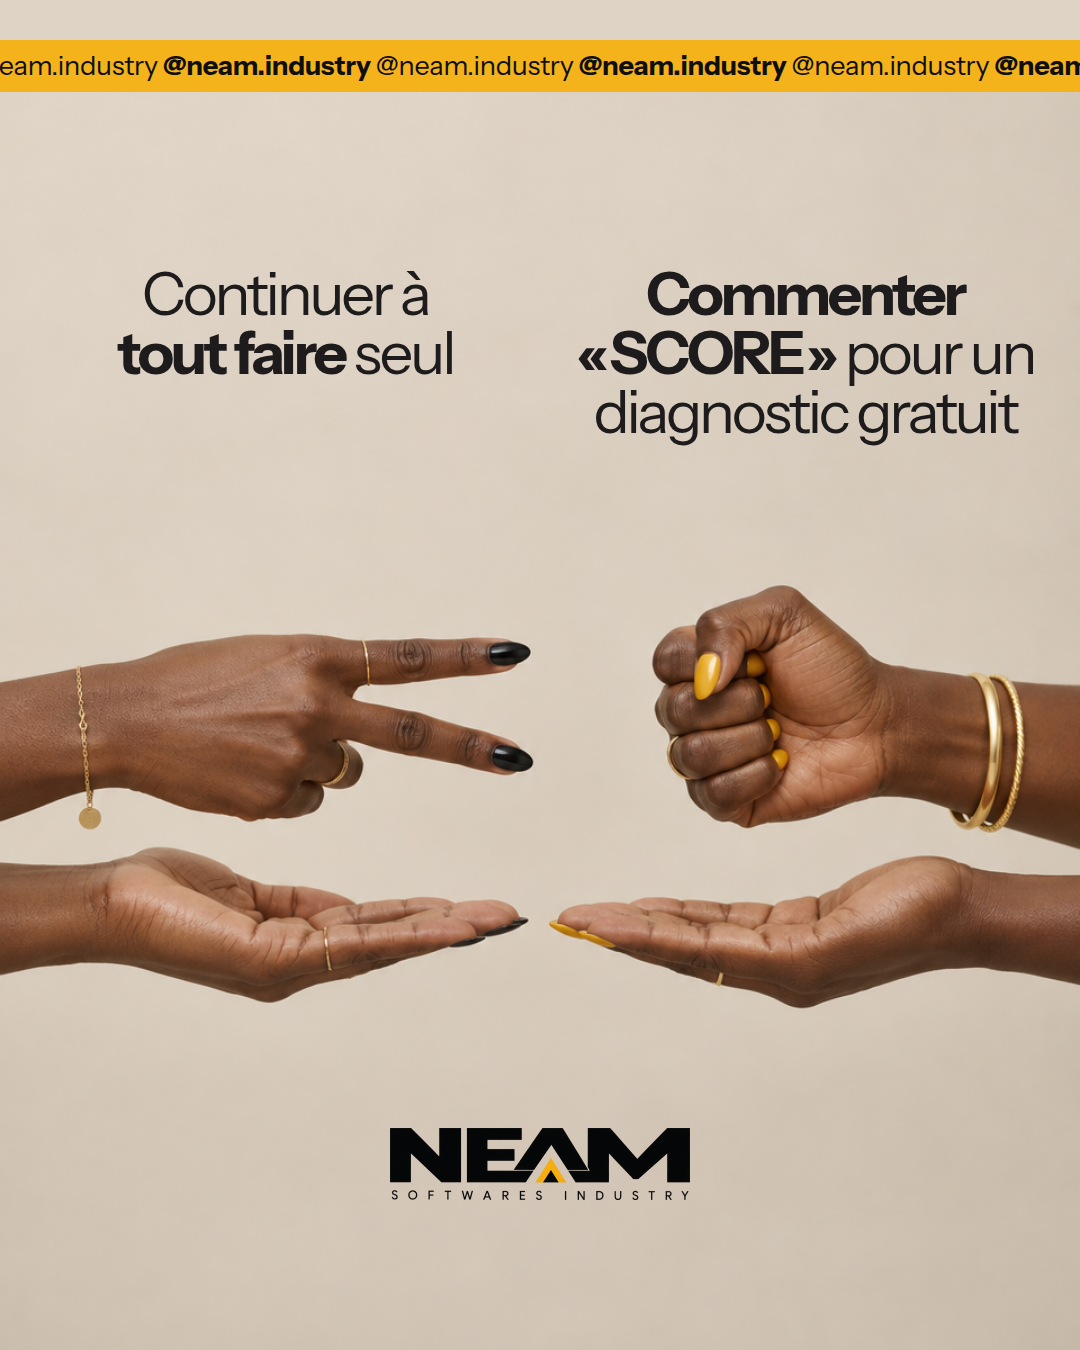
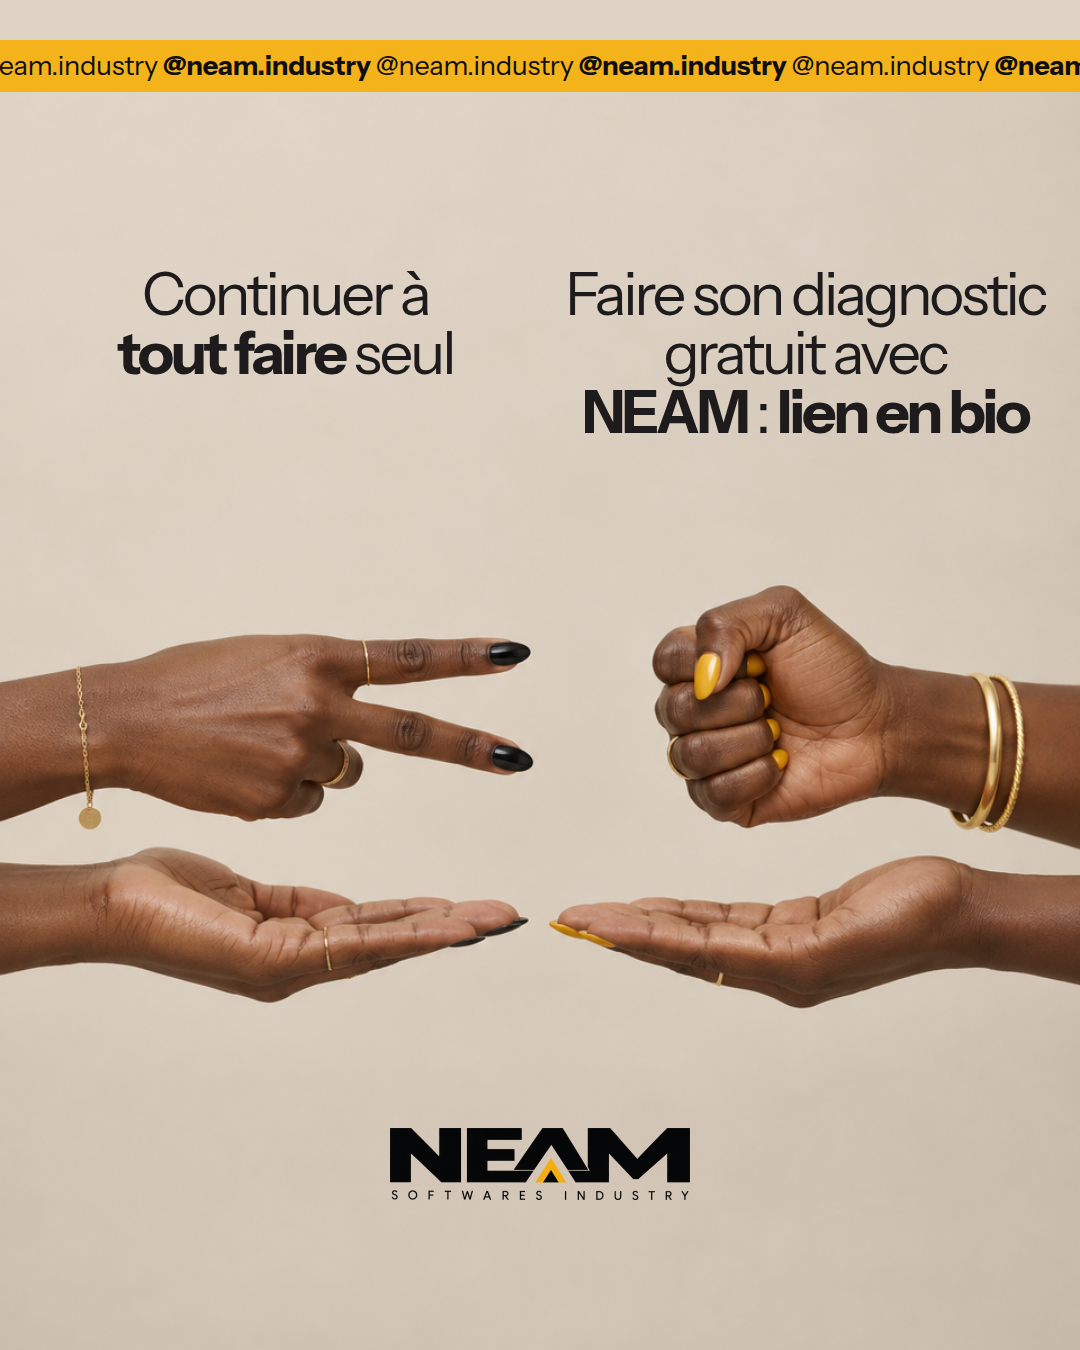
Carrousel chifoumi : appel à l'action « lien en bio » au lieu de « Commenter SCORE »
Claude-Session: https://claude.ai/code/session_01Tymgo6shCiXC2mj1sVy4AH

Changed region(s): [[0.5194, 0.1867, 0.9778, 0.3422]]

diff --git a/campagne/carrousel-chifoumi/slides.html b/campagne/carrousel-chifoumi/slides.html
@@ -18,4 +18,4 @@ body { background: #777; } :root { --fond: #ded3c4; }
 <p class="g">Répondre aux clients <b>à minuit</b></p><p class="d">Une IA qui répond sur WhatsApp avec <b>NEAM</b></p><img class="logo" src="../../assets/logo-light.png" alt="NEAM"></section><section class="slide"><div class="bande">@neam.industry <b>@neam.industry</b> @neam.industry <b>@neam.industry</b> @neam.industry <b>@neam.industry</b> @neam.industry <b>@neam.industry</b> </div>
 <p class="g">Avoir un site <b>qui ne vend rien</b></p><p class="d">Encaisser en Mobile Money avec <b>NEAM</b></p><img class="logo" src="../../assets/logo-light.png" alt="NEAM"></section><section class="slide"><div class="bande">@neam.industry <b>@neam.industry</b> @neam.industry <b>@neam.industry</b> @neam.industry <b>@neam.industry</b> @neam.industry <b>@neam.industry</b> </div>
 <p class="g"><b>Booster</b> une pub au hasard</p><p class="d">Cibler les bons clients avec <b>NEAM</b></p><img class="logo" src="../../assets/logo-light.png" alt="NEAM"></section><section class="slide"><div class="bande">@neam.industry <b>@neam.industry</b> @neam.industry <b>@neam.industry</b> @neam.industry <b>@neam.industry</b> @neam.industry <b>@neam.industry</b> </div>
-<p class="g">Continuer à <b>tout faire</b> seul</p><p class="d"><b>Commenter «&#8239;SCORE&#8239;»</b> pour un diagnostic gratuit</p><img class="logo" src="../../assets/logo-light.png" alt="NEAM"></section></body></html>
+<p class="g">Continuer à <b>tout faire</b> seul</p><p class="d">Faire son diagnostic gratuit avec <b>NEAM</b> : <b>lien en bio</b></p><img class="logo" src="../../assets/logo-light.png" alt="NEAM"></section></body></html>

diff --git a/campagne/carrousel-chifoumi/slides.py b/campagne/carrousel-chifoumi/slides.py
@@ -5,7 +5,7 @@ PAIRES = [
     ('Répondre aux clients <b>à minuit</b>', 'Une IA qui répond sur WhatsApp avec <b>NEAM</b>'),
     ('Avoir un site <b>qui ne vend rien</b>', 'Encaisser en Mobile Money avec <b>NEAM</b>'),
     ('<b>Booster</b> une pub au hasard', 'Cibler les bons clients avec <b>NEAM</b>'),
-    ('Continuer à <b>tout faire</b> seul', '<b>Commenter «&#8239;SCORE&#8239;»</b> pour un diagnostic gratuit'),
+    ('Continuer à <b>tout faire</b> seul', 'Faire son diagnostic gratuit avec <b>NEAM</b> : <b>lien en bio</b>'),
 ]
 bande = ''.join(('<b>@neam.industry</b>' if i % 2 else '@neam.industry') + ' ' for i in range(8))
 slides = ''.join(f'''<section class="slide"><div class="bande">{bande}</div>

diff --git a/campagne/carrousel-chifoumi/README.md b/campagne/carrousel-chifoumi/README.md
@@ -9,6 +9,6 @@ Régénérer : `python3 slides.py && node render.js` (textes dans `slides.py`).
 Pierre, feuille, ciseaux… mais en version business ✊✌
 Lequel de ces combats vous parle le plus ? 👇
 
-Commentez « SCORE » et on vous envoie le lien de votre diagnostic digital gratuit (NEAM Digital Score).
+Faites votre diagnostic digital gratuit, le NEAM Digital Score : lien en bio 🔗
 
 #Libreville #Gabon #PME #TPE #MarketingDigital #NEAM
